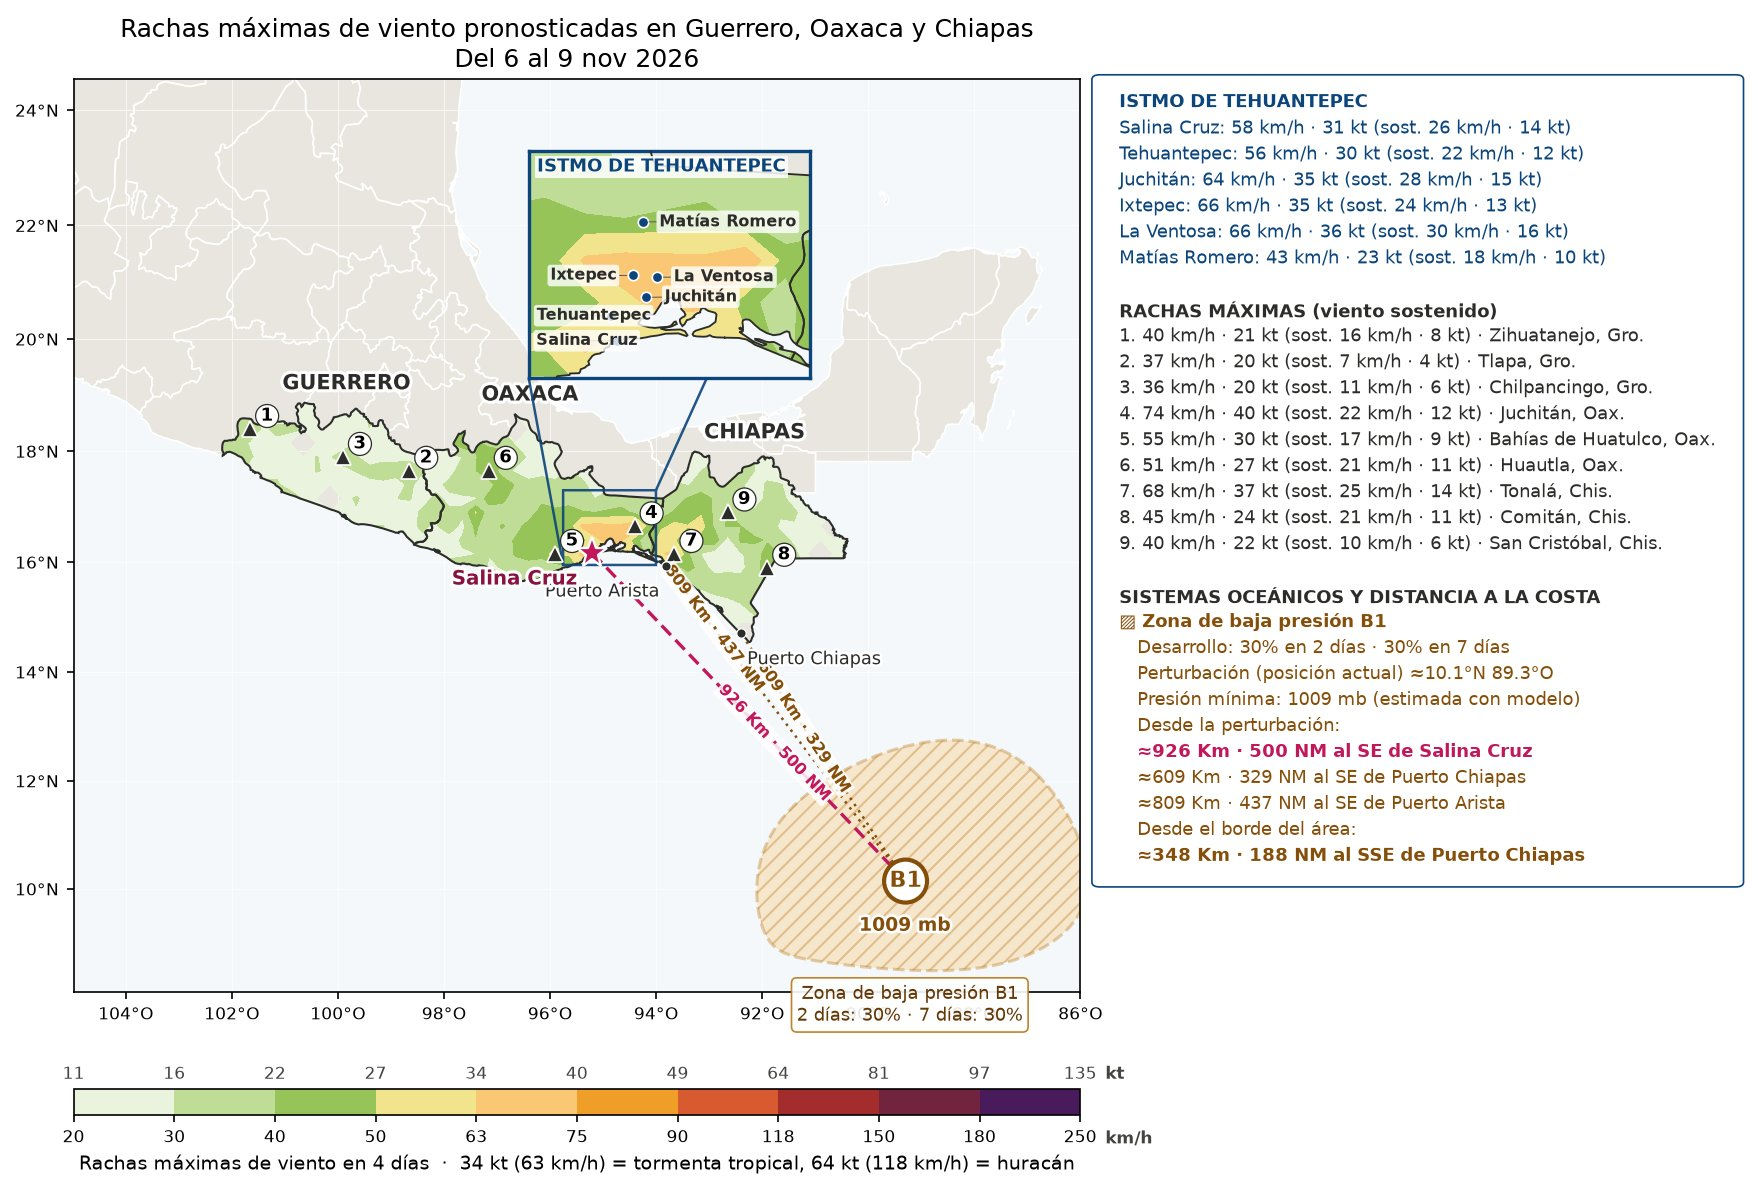
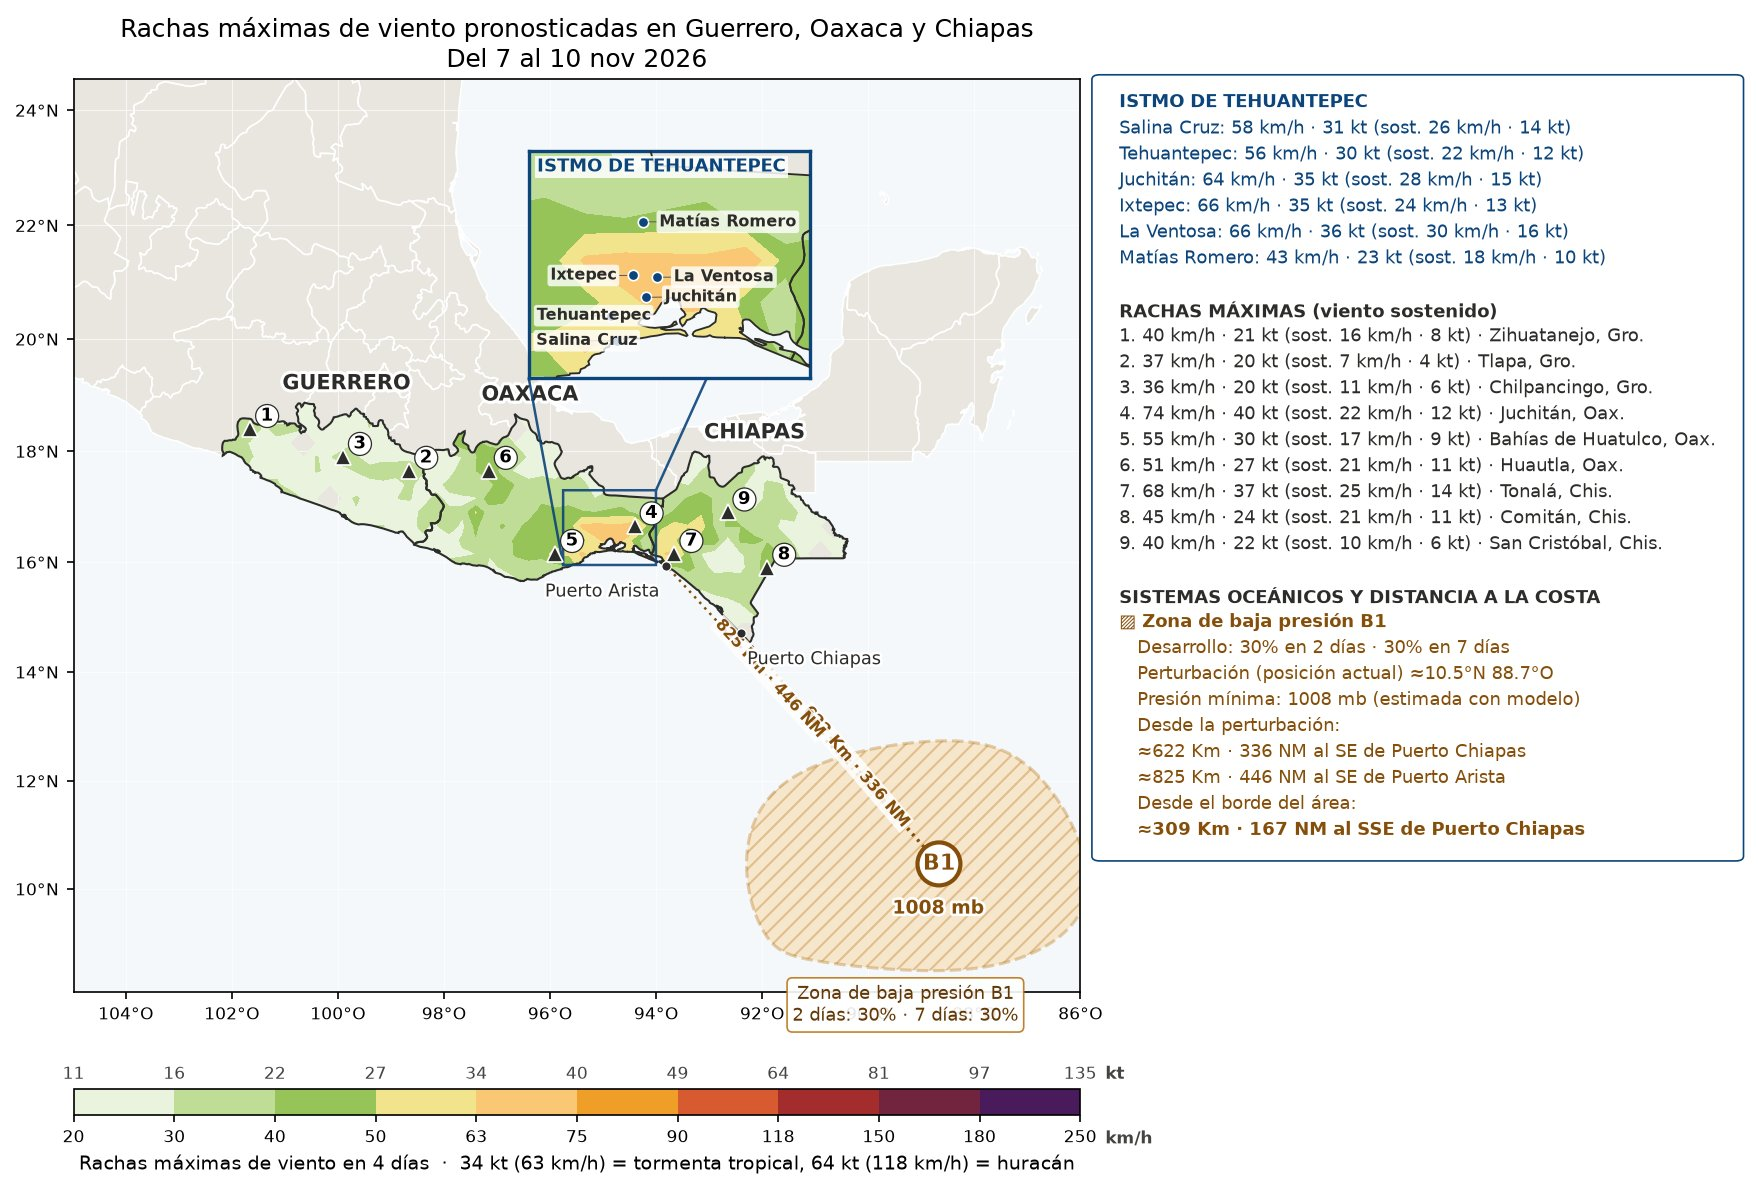
Monitor 07/11 00:27 (mapas nuevos)

diff --git a/index.html b/index.html
@@ -62,7 +62,7 @@ pre{overflow-x:auto;font-size:.75rem;background:var(--bg);padding:10px;border-ra
 <section class="t" id="sec_log"><details><summary>Registro (últimas líneas)</summary><pre id="log"></pre></details></section>
 </main>
 <div id="zoom"><img alt=""></div>
-<script id="datos" type="application/json">{"generado": "2026-11-06T23:57:03.807236", "ultima_revision": "2026-11-06T23:57:03.756490", "decision": "cambios menores en espera", "ultima_imagen": "2026-11-06T21:20:13.746060", "motivo_imagen": "cambios acumulados en 3 h: modelo", "pendientes": ["zonas"], "intervalo_h": 3, "resumen": {"ciclones": {}, "zonas": [{"lat": 10.5, "lon": -88.7, "n": "1", "p2": 30, "p7": 30}]}, "historial": [{"fecha": "2026-11-05T02:30:11.384999", "motivo": "cambios acumulados en 3 h: modelo"}, {"fecha": "2026-11-05T05:57:19.037606", "motivo": "cambios acumulados en 3 h: zonas"}, {"fecha": "2026-11-05T09:10:25.609675", "motivo": "cambios acumulados en 3 h: modelo"}, {"fecha": "2026-11-05T11:47:18.609423", "motivo": "CAMBIO SIGNIFICATIVO: zona de baja presión: 40/60% → 40/50% (2/7 días)"}, {"fecha": "2026-11-05T15:00:14.907001", "motivo": "cambios acumulados en 3 h: modelo"}, {"fecha": "2026-11-05T17:47:16.654961", "motivo": "CAMBIO SIGNIFICATIVO: zona de baja presión: 40/50% → 40/40% (2/7 días)"}, {"fecha": "2026-11-05T21:00:07.785836", "motivo": "cambios acumulados en 3 h: modelo"}, {"fecha": "2026-11-06T00:07:18.516460", "motivo": "cambios acumulados en 3 h: zonas"}, {"fecha": "2026-11-06T03:20:16.865587", "motivo": "cambios acumulados en 3 h: modelo"}, {"fecha": "2026-11-06T06:27:18.371045", "motivo": "cambios acumulados en 3 h: zonas"}, {"fecha": "2026-11-06T09:40:10.112780", "motivo": "cambios acumulados en 3 h: modelo"}, {"fecha": "2026-11-06T11:37:17.169772", "motivo": "CAMBIO SIGNIFICATIVO: zona de baja presión: 40/40% → 30/30% (2/7 días)"}, {"fecha": "2026-11-06T14:50:22.502540", "motivo": "cambios acumulados en 3 h: modelo"}, {"fecha": "2026-11-06T18:07:20.063705", "motivo": "cambios acumulados en 3 h: zonas"}, {"fecha": "2026-11-06T21:20:13.746060", "motivo": "cambios acumulados en 3 h: modelo"}], "imagenes": {"lluvia": {"src": "lluvia.jpg?v=202611062120", "fecha": "2026-11-06T21:20:07.019393"}, "viento": {"src": "viento.jpg?v=202611062120", "fecha": "2026-11-06T21:20:12.115007"}}, "log": [], "umbral_av": 50, "umbral_mal": 110}</script>
+<script id="datos" type="application/json">{"generado": "2026-11-07T00:27:15.864619", "ultima_revision": "2026-11-07T00:27:15.808029", "decision": "imágenes generadas", "ultima_imagen": "2026-11-07T00:27:15.808029", "motivo_imagen": "cambios acumulados en 3 h: zonas", "pendientes": [], "intervalo_h": 3, "resumen": {"ciclones": {}, "zonas": [{"lat": 10.5, "lon": -88.7, "n": "1", "p2": 30, "p7": 30}]}, "historial": [{"fecha": "2026-11-05T05:57:19.037606", "motivo": "cambios acumulados en 3 h: zonas"}, {"fecha": "2026-11-05T09:10:25.609675", "motivo": "cambios acumulados en 3 h: modelo"}, {"fecha": "2026-11-05T11:47:18.609423", "motivo": "CAMBIO SIGNIFICATIVO: zona de baja presión: 40/60% → 40/50% (2/7 días)"}, {"fecha": "2026-11-05T15:00:14.907001", "motivo": "cambios acumulados en 3 h: modelo"}, {"fecha": "2026-11-05T17:47:16.654961", "motivo": "CAMBIO SIGNIFICATIVO: zona de baja presión: 40/50% → 40/40% (2/7 días)"}, {"fecha": "2026-11-05T21:00:07.785836", "motivo": "cambios acumulados en 3 h: modelo"}, {"fecha": "2026-11-06T00:07:18.516460", "motivo": "cambios acumulados en 3 h: zonas"}, {"fecha": "2026-11-06T03:20:16.865587", "motivo": "cambios acumulados en 3 h: modelo"}, {"fecha": "2026-11-06T06:27:18.371045", "motivo": "cambios acumulados en 3 h: zonas"}, {"fecha": "2026-11-06T09:40:10.112780", "motivo": "cambios acumulados en 3 h: modelo"}, {"fecha": "2026-11-06T11:37:17.169772", "motivo": "CAMBIO SIGNIFICATIVO: zona de baja presión: 40/40% → 30/30% (2/7 días)"}, {"fecha": "2026-11-06T14:50:22.502540", "motivo": "cambios acumulados en 3 h: modelo"}, {"fecha": "2026-11-06T18:07:20.063705", "motivo": "cambios acumulados en 3 h: zonas"}, {"fecha": "2026-11-06T21:20:13.746060", "motivo": "cambios acumulados en 3 h: modelo"}, {"fecha": "2026-11-07T00:27:15.808029", "motivo": "cambios acumulados en 3 h: zonas"}], "imagenes": {"lluvia": {"src": "lluvia.jpg?v=202611070027", "fecha": "2026-11-07T00:27:09.473216"}, "viento": {"src": "viento.jpg?v=202611070027", "fecha": "2026-11-07T00:27:14.178930"}}, "log": [], "umbral_av": 50, "umbral_mal": 110}</script>
 <script>
 const D = JSON.parse(document.getElementById("datos").textContent);
 const $ = id => document.getElementById(id);
